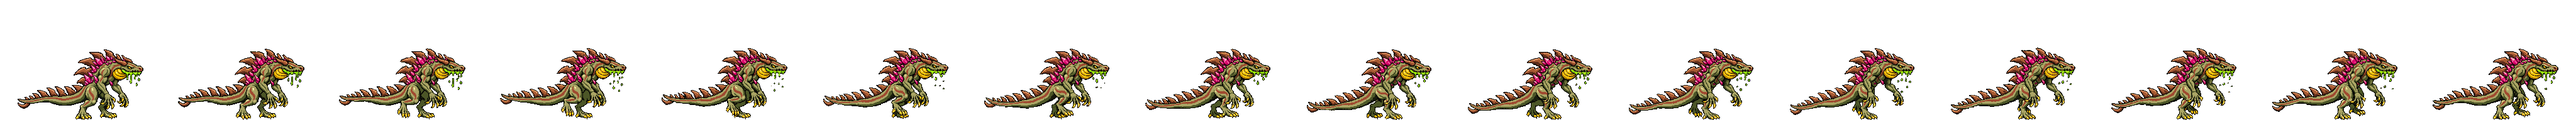
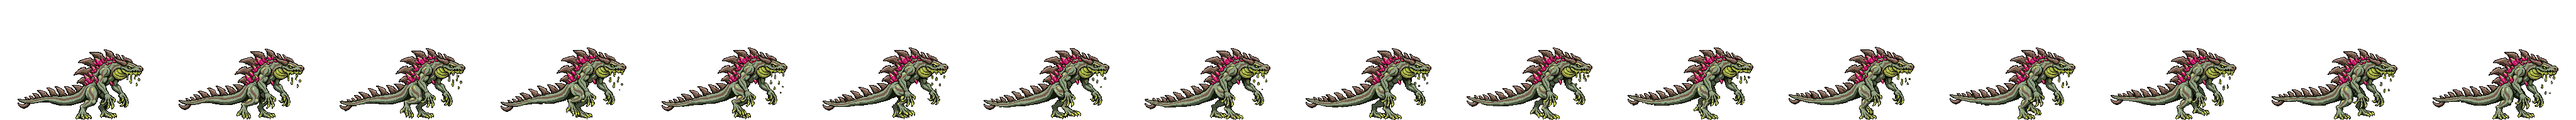
Restyle Belial Stage 3 onto the Stage 2 palette, re-roll idle and walk
The keyed render read as a different creature: olive hide, saturated rust
spines, an orange gland and ~6000 colours of glossy shading.
tools/belial_s3_restyle.py remaps it by class to Stage 2's grey-green hide,
umber-grey spines and stripes and lime gland/drool/claws (crystals and
outline untouched, lightness kept), then median-cuts to 48 colours.
Idle and walk are new seed 0 rolls from the restyled base; they hold the
palette without a recolour.

Claude-Session: https://claude.ai/code/session_01SJ9dCxcqM7YpNSHppDYTcf

Changed region(s): [[0.0, 0.4062, 1.0, 1.0], [0.0312, 0.9375, 0.0625, 0.9688]]

diff --git a/src/presentation.ts b/src/presentation.ts
@@ -65,7 +65,8 @@ const BL1_NATIVE={scale:145/256,anchor:57+128*145/256};
 // Belial Stage 1 attack strips: the same base shifted 40px left (sprite at x=17) so the slashes and the lunge stay in the frame.
 const BL1_LEFT={scale:145/256,anchor:17+128*145/256};
 // Belial Stage 3 strips: the belial-s3 base still, a 200x113 sprite at x=28 in a 256x192 frame (the user's render keyed with
-// tools/key_render.py --period 8.04): the adult stands hunched on his hind legs, claws forward, pink crystals between the back spines.
+// tools/key_render.py --period 8.04, then tools/belial_s3_restyle.py onto the Stage 2 palette): the adult stands hunched on his hind legs,
+// claws forward, pink crystals between the back spines.
 const BL3_NATIVE={scale:200/256,anchor:28+128*200/256};
 // Belial Stage 3 form (just started): idle and walk only; `borrow` plays the Stage 2 strip for every other move until Stage 3 art lands.
 const BELIAL_S3:Form={width:120,borrow:true,anims:{idle:{src:'assets/belial-s3-idle.png',frames:8,fps:8,...BL3_NATIVE},

diff --git a/tools/belial_s3_restyle.py b/tools/belial_s3_restyle.py
@@ -1,0 +1,37 @@
+#!/usr/bin/env python3
+"""Belial Stage 3 restyle: pull the Stage 3 render onto the Stage 1/2 palette and finish.
+Usage: python3 -I tools/belial_s3_restyle.py in.png out.png [--colours 48]
+
+The render came out olive (hue ~54, sat .29) with saturated rust spines/stripes (sat .54), a yellow-orange gland and ~6000 colours
+of glossy shading; Stage 2 is grey-green (hue 95, sat .14) with umber-grey spines/stripes (hue 24, sat .22), a yellow-green lime
+gland/drool/claws (hue 68, sat .7) and far fewer shades. Classes, keeping each pixel's lightness:
+  crystals  hue 290..350, sat > .3            -> untouched (the Stage 3 marker)
+  lime      hue 35..95, sat >= .5, light > .25 -> hue 68, sat .7, lightness x.85 (gland, drool, claws)
+  rust      hue < 35 or > 350, sat > .2        -> hue 24, sat .22, lightness x.95 (spines, stripes)
+  hide      everything else not near-black      -> hue 95, sat .14, lightness x1.12
+Then the whole sprite is median-cut to --colours (no dither) to flatten the gloss. Outline (lightness < .1) is untouched.
+"""
+import argparse, os, sys
+import numpy as np
+from PIL import Image
+sys.path.insert(0, os.path.dirname(os.path.abspath(__file__)))
+from recolor_hls import hls, torgb
+
+def restyle(a, colours=48):
+    a = a.copy(); h, l, s = hls(a); op = a[..., 3] > 127; dark = l < .1
+    crys = op & ~dark & (h >= 290) & (h <= 350) & (s > .3)
+    lime = op & ~dark & (h >= 35) & (h <= 95) & (s >= .5) & (l > .25)
+    rust = op & ~dark & ~crys & ((h < 35) | (h > 350)) & (s > .2)
+    hide = op & ~dark & ~crys & ~lime & ~rust
+    for m, (H, S, k) in [(hide, (95, .14, 1.12)), (rust, (24, .22, .95)), (lime, (68, .7, .85))]:
+        new = torgb(H, S, np.clip(l * k, 0, 1)); a[..., :3] = np.where(m[..., None], np.round(new * 255), a[..., :3]).astype(np.uint8)
+    if colours:
+        q = np.asarray(Image.fromarray(a[..., :3]).quantize(colours, method=Image.Quantize.MEDIANCUT, dither=Image.Dither.NONE).convert('RGB'))
+        a[..., :3] = q
+    a[~op] = 0
+    return a
+
+if __name__ == '__main__':
+    ap = argparse.ArgumentParser(); ap.add_argument('src'); ap.add_argument('out'); ap.add_argument('--colours', type=int, default=48)
+    o = ap.parse_args()
+    Image.fromarray(restyle(np.asarray(Image.open(o.src).convert('RGBA')), o.colours)).save(o.out, optimize=True)

diff --git a/README.md b/README.md
@@ -72,7 +72,7 @@ Score is earned points minus actual HP damage penalty, including healed damage. 
 
 **Belial Stage 2 art (just started, the base form):** `belial-s2.png` is the low-slung striped reptile (grey-green hide, dark umber-grey tiger stripes and blade spines down a long tail, green acid gland on the neck, drooling green acid), keyed from the transparent render with `tools/key_render.py` (grid 9.170x9.175 px per art pixel) to a 216x79 sprite at x=20, feet on the bottom row of a 256x192 frame (`BL2_NATIVE`: scale 216/256, anchor 128). As with Mogurodon the Stage 2 design is the base form; Stage 1 has its own complete form and Stage 3 its own form (both below), which borrows these strips for moves it lacks. `belial-s2-idle` (breathing loop, 8 frames, 8 fps, closed on the base) and `belial-s2-walk` (stalking crawl, one full four-leg stride in 16 frames at 15 fps, closed on the base) are PixelLab strips generated from the base, then fill_pinholes/remove_specks. `belial-s2-run` (Shift / double-tap, 8 frames at 15 fps like Tlézcatl's) is a low bounding gallop generated from the base with it as the end pose (seed 7; seed 0 barely left the walk for its first half and threw dust ahead of the snout): the body gathers and stretches, frames 4-5 are a 4-5px flight phase, dust kicks back, the tail streams straight out; then fill_pinholes/remove_specks. Jump (`belial-s2-jump-rise/air/land`, 9 frames at 24 fps, a 4-frame loop at 8 fps, 5 frames at 20 fps like the other forms): rise is a roll from the base (seed 7; seed 0 barely coiled the tail) that crouches, curls the tail up over his back and springs off all four legs into a level, legs-tucked leap. Air is frames 0,1,2,1 of a 4-frame roll from the rise's last frame (seed 0). Land is frames 1-4 of a roll from that same frame with the base as end pose (seed 7): legs reach down with the tail flung up, then he squashes low. Frame 4 already matched the base, and the exact base closes the strip. All three: remove_specks, bottom_align, fill_pinholes. Crouch (5 frames at 22 fps, a 4-frame loop at 6 fps, then the reverse, like the other forms): `belial-s2-crouch-down` is a roll from the base (seed 0) that splays the legs and presses belly and chin flat with the spines laid back and the tail flat, 79px tall down to about 54. `belial-s2-crouch` is a breathing loop lying flat, a roll from that last pose with it as the end pose (seed 7). PixelLab returned a clean 4-frame cycle that starts on the flat pose. `belial-s2-crouch-up` is crouch-down reversed. Cleanup: remove_specks, bottom_align, fill_pinholes. Form width 120. Light combo (`belial-s2-light1..3`, 8 frames each at 24/21/20 fps, `once`): forward claw swipe, backhand rake, and a lunging bite that snaps shut in a puff of acid. They're generated from the base shifted flush left (`BL2_LEFT`, sprite at x=0, anchor 108) for 40px of reach, with the base as first and last frame. Light1 and light3 are re-rolls (seed 45), because the first rolls' slash arc and acid spray were cut off by the right edge of the frame. Then fill_pinholes/remove_specks. Heavy, a scorpion tail strike (`belial-s2-heavy-rear/hold/slam`: 5 frames at 20 fps, a 4-frame loop at 10 fps, 8 frames at 16 fps; 256x256 frames with the left-shifted base): the tail curls up over his back with the blade poised above his head, quivers while K is held, then whips over his head and slashes down in front of the snout. The hold and slam are generated from rear's last frame; the slam ends on the base, and its first frame (a copy of the hold pose) is dropped so the strike starts the moment K is released. The slash's outer edge grazes the frame's right edge on slam frames 2–3. **Palette:** the renders and strips came out salmon-pink with red spines. `tools/belial_recolor.py` (helpers in `tools/recolor_hls.py`) remaps every Belial strip: pink hide (warm hue, saturation under .57) to grey-green, red spines and stripes (saturation .57+) to dark umber-grey, and slash smears to acid green. A smear is a warm region mostly ringed by transparency with almost no black outline; pixels within 2px of outline stay body, so spines swallowed by the tail-strike arc keep their colour. Acid, claws, eye, outline and the tan dust (hue 42) are untouched. New strips are generated from the recoloured base, so they shouldn't need it, but if a PixelLab roll drifts back toward pink, run it through the same script. Acid Vomit art (`belial-s2-vomit-start/aim/end`, registered as `vomitStart`/`vomitAim`/`vomitEnd`; the mechanic isn't wired up yet): start is frames 1, 2, 4, 5 and 8 of a heave-and-gape roll (seed 0, recoloured); the rolls' own acid streams are skipped, since the game draws the stream. Aim is seven gape frames from tucked down to neck raised (a chin-tuck roll and a silent-roar head-raise roll; prompts that mention vomiting make PixelLab draw a stream). Rotation-matching the head didn't work on these (it locks onto the skull and neck, and the mouth opening barely turns as the neck rises), so `angles` [-25,-12,0,8,18,32,45] are set from the head-and-neck pose, and `mouth` is the midpoint of the jaw tips read off a grid. End is a gag-and-snap roll (seed 7) closed on the shifted base. **Acid Vomit (gameplay, `COMBAT.vomit*`/`corrode*` in `src/config.ts`):** Belial's grounded L. It runs on the Flame Jet's state machine (`jet`, with `jetFuel` as his gland pressure), branching where it differs: `spew()` traces a ballistic arc from the mouth point at a launch speed set by the pressure (`vomitSpeed` empty→full), so as the gland drains the arc sags and the landing walks back toward him. Untouched it lobs at `vomitRest` (15°); W/S tilt it from -25° to 55°. The stream pierces troops and aircraft, intercepts rockets, and stops on the first building (wall or roof) or the street, where it splashes (`vomitSplash`) and leaves an acid puddle (`acid` pools). Running the gland dry plays the gag and locks it until `vomitRelight`. Corrosion (`corr` in `game.ts`) stacks per target with contact time (`corrodePerStack`, up to 3); corroded targets take `corrodeDamage` x stacks per tick and `corrodeVuln` x stacks more from every player hit (buildings via `hit()`, units via a `hitUnit` wrapper round military's, the rival via `strikeRival`); tanks and APCs also lose `corrodeArmor`. A fully corroded building gives way at `corrodeBreak` (25%) HP. He walks at `vomitSlow` (half speed) while spewing. Tests: `tests/belial-vomit.test.ts`. Climb (`belial-s2-climb-grab/climb/climb-punch/climb-mantle`, 256x256 with the base padded to 256 tall, `BL2_NATIVE`): gecko cling, body vertical with the head up and the tail hanging to the bottom row, the gripping claws on the wall line at frame x=171 (hitbox edge, 24 world units out at k=120/216). Grab is frames 0-3 and 8 of a rear-and-leap roll (seed 0; seed 7 painted a wall), eased 81px left and 33px down onto the wall line (the vertical ease is capped so feet never leave the frame). The loop (closed on the cling), punch (acid-green flash on impact frame 4, so `impact:4`) and mantle (ends on the base, starts 26px back for the roof slide, 0.3 x 48 units) are seed 0 rolls from the placed cling frame. PixelLab drew thin dark drool streaks and a roof-ledge line, so 1px-wide dark runs (vertical 4+, horizontal 6+) were erased, then fill_pinholes, remove_specks (MAX 6) and optimize_sprites. No recolour needed. Grab/carry/throw in the jaws (`belial-s2-grab/carry/carry-walk/throw`, 256x256 from the left-shifted base, `BL2_LEFT`, so the head has room to whip): the grab (seed 0) gapes, drops the head to the street to bite, and hauls the neck up high with the jaws clamped; carry (strain loop) and carry-walk (one four-leg stalking stride, head held up) loop from that pose; the throw is frames 2-8 of a roll from it (frames 0-1 just held the pose, and the prop launches on the key press): the jaws spring open and the head whips forward and down with an acid-green swing arc that grazes the frame's right edge on frames 2-4, ending on the shifted base. Detached acid drops and street puddles were removed with remove_specks MAX 120 before carry, carry-walk and throw were generated from the lift frame. These strips set `bite`: each `hold` point is where the jaws close (measured on the snout, frames 0-5 on the street), and the game (`holdBite`) grips the prop by its near end there, its centre 0.3 of its own width ahead at mid-height, and never lets it sink below the feet line. A centred prop hid the whole head. **Acid Pounce (his Slam):** art is 256x256 from the base padded 64px on top (`BL2_NATIVE`). `belial-s2-dive` is frames 0, 3, 4 and 6 of an 8-frame roll from the jump-air pose padded the same way (seed 0): he gathers, then tips into a steep nose-down pounce, claws splayed, jaws open, tail whipped up; bottom-aligned, fill_pinholes, remove_specks, held on the last frame. `belial-s2-slam-land` is frames 1-7 of a roll from that plunge with the padded base as end pose (seed 0; seed 7's splash was weaker) plus the exact base: claws and chest hit in an acid splash both ways, a belly-flop with spatter, and he pushes back up; fill_pinholes only, so the droplets survive. Gameplay (`MOVE.pounce*`): on top of the shared slam, everything the landing strikes (roof under him, buildings in the radius, units, the rival) is soaked straight to `pounceStacks` (2) of corrosion, 3 from a `pounceFullPower` drop, applied after the hit so the slam itself isn't boosted; a street landing lays acid puddles across `pouncePoolWidth` x his body width (x power, capped 1.5). Tests in `tests/belial-vomit.test.ts`. **Acid Deluge (Belial's Ultimate, `COMBAT.deluge*`):** art: `belial-s2-ult-charge/roar/pound/settle`, 256x256 frames from the base padded to 256 tall (`BL2_NATIVE`). Charge is 13 frames at 20 fps (= `delugeCharge`, a roll from the base, seed 0): the gland balloons up, he plants and heaves, acid dribbling. Roar is 9 frames at 18 fps from the last charge frame (seed 7; prompted as a silent roar at the sky, so PixelLab draws no stream): he rears straight up onto hind legs and tail, jaws open at the sky, the geyser firing on impact frame 4. Pound is a 4-frame pumping hold closed on the roar's last frame. Settle is frames 2-7 of a roll back to the base plus the exact base (7 frames at 14 fps). `mouth` (135,100) is the red mouth interior's centre nudged up to the jaws. Cleanup: remove_specks, fill_pinholes, bottom_align. Belial's `pound` points at his heavy slam, since S+J otherwise falls back to `ultPound`. Gameplay (`tickDeluge`/`tickRain` in `game.ts`): planted; on the roar's impact frame the geyser goes up and spouts until the settle starts. Every drop is scheduled then: `delugeDrops` spread over the spout, `delugeDelay` later, landing at random out to `delugeRange` x sqrt(stage scale) on alternating sides. Drops fall from the top of the view and hit the topmost thing under them (aircraft, troops, vehicles, growths, the stronghold crystal, the rival), else the roof below, else the street (a `delugeSplash` splash plus a Deluge puddle, capped at `delugePuddleCap` apart from the stream's). Each hit soaks the target with `delugeSoak` corrosion stacks before `delugeDamage` lands, so a building in the downpour is fully corroded within a few drops and gives way at `corrodeBreak`. Deluge corrosion (`ult` on the corrosion record, which a soak also sets on corrosion the stream laid) ticks as Ultimate damage, so nothing it eats or knocks down refills the meter. The rain outlives the Ultimate until the last drop is down; while it falls the screen tints green. Tests: `tests/belial-deluge.test.ts`.
 **Belial Stage 1 art (complete):** `belial-s1.png` is a lean juvenile of the Stage 2 design: slimmer body, short nub spines, thin whip tail, the neck gland reduced to green drool, same grey-green hide and umber tiger stripes. There was no render for it, so it's a PixelLab Pixen edit (`/edit-image-pixen`, seed 7) of the Stage 2 base shrunk to 62% (Lanczos, feet on the bottom row) with a prompt for a younger, smaller, leaner version that keeps the low head, slitted eye and teeth (a first "hatchling" prompt came out big-eyed and cute). It's a 145x54 sprite at x=57, feet on the bottom row of a 256x192 frame (`BL1_NATIVE`: scale 145/256), fill_pinholes only. Registered as `BELIAL_S1` (`stages[1]`, width 120, `borrow`), so every move without Stage 1 art plays the Stage 2 strip. `belial-s1-idle` (breathing loop, 8 frames at 8 fps: head dips, drool drips and falls) and `belial-s1-walk` (stalking crawl, one full four-leg stride in 16 frames at 15 fps, like Stage 2's) are seed 7 PixelLab rolls from the base with it as the end pose (seed 0 was close but steppier); subject "a young lean grey-green reptile kaiju with dark umber-grey tiger stripes, small spikes along its back, a long thin tail, and green acid drool", pose "standing low on all four legs facing right, head held level". fill_pinholes only: remove_specks would eat the falling acid drops. The walk isn't bottom-aligned (it rides 1-2px high mid-stride, like Stage 2's). `belial-s1-run` (8 frames at 15 fps) is a low bounding gallop rolled from the base with it as the end pose (seed 0; seed 7 sat on the base pose for its first three frames): the body stretches long, frame 4 is the flight phase, dust kicks back; fill_pinholes, remove_specks. Jump (`belial-s1-jump-rise/air/land`, 9 frames at 24 fps, a 4-frame loop at 8 fps, 5 frames at 20 fps like the other forms): rise is a roll from the base (seed 7; seed 0 stood up tall mid-squat) that squats, coils the tail up over his back and springs into a level, legs-tucked leap. Air is frames 0,1,2,1 of a 4-frame roll from the rise's last frame (seed 0). Land is frames 1-4 of a roll from that frame with the base as end pose (seed 7) plus the exact base: legs reach down with the tail flung up, then he squashes and stands. Crouch (5 frames at 22 fps, a breathing loop at 6 fps, then the reverse): `belial-s1-crouch-down` is a roll from the base (seed 7; seed 0 grew the spines to adult size) that splays the legs and presses belly and chin flat, 54px tall down to about 32. `belial-s1-crouch` is a roll from that last pose with it as the end pose (seed 7); all five frames are kept, since the fifth is the in-between that closes the loop smoothly. `belial-s1-crouch-up` is crouch-down reversed. Jump and crouch strips: remove_specks (MAX 40, so detached acid drops don't throw off the alignment), bottom_align, fill_pinholes. Light combo (`belial-s1-light1..3`, 8 frames each at 24/21/20 fps, `once`): forward claw swipe, backhand rake, and a gaping lunge that snaps shut in a puff of acid. They're generated from the base shifted 40px left (`BL1_LEFT`, sprite at x=17), with it as first and last frame. Light1 and light3 are seed 0. Light2 is a re-roll (seed 45) with a prompt asking for a thin streak: seed 0 left a grey blob in the slash and seed 7's arc swallowed him. Light3's tail tip grazes the left edge on frame 2 (3px) and its spray the right on frames 5-6. fill_pinholes, remove_specks. Heavy, the scorpion tail strike (`belial-s1-heavy-rear/hold/slam`: 5 frames at 20 fps, a 4-frame loop at 10 fps, 8 frames at 16 fps; 256x256 frames with the shifted base padded 64px on top): rear is a roll from the base (seed 0; seed 7's tail barely cleared his back) that curls the tail up and forward over his back. Hold (seed 0) quivers it, a loop closed on the rear's last frame. Slam is frames 1-8 of a roll from that frame ending on the base (seed 0; seed 7 wound up for two more frames before striking): the tail whips over his head and slashes down in front of the snout in an acid splash, spatter, and he straightens. Rear had its detached drool drop removed (remove_specks MAX 40) before hold and slam were rolled from it. All three: fill_pinholes, remove_specks, bottom_align (PixelLab left them 1px high). Acid Vomit (`belial-s1-vomit-start/aim/end`, 5 frames at 20 fps, 7 aim frames, 4 frames at 16 fps, `BL1_LEFT`): start is frames 1, 2, 4, 5 and 8 of a heave-and-gape roll from the shifted base (seed 0, chosen over seed 7 because its glow swells the throat like Stage 2's gland rather than the belly); frames 6-7 drew their own acid blast and are skipped, and the detached ring of spray left on frame 8 was erased (remove_specks MAX 600), since the game draws the stream. Aim is seven gape frames rolled from that gape (seed 0 both ways; seed 7's raise dripped a stream): frames 2 and 1 of a chin-tuck roll, the gape itself, and frames 2, 4, 6 and 8 of a silent-roar neck-raise roll. As on Stage 2, the mouth opening barely turns as the neck rises, so `angles` [-25,-12,0,8,18,32,45] follow the head-and-neck pose; the tucked frames really point about -30° and -15°, and a deeper -42° tuck was dropped since the aim stops at -25°. `mouth` is the midpoint of the jaw tips read off a grid (a script that took the biggest acid-green blob found the throat glow instead). End is frames 1-3 of a gag-and-snap roll from the gape closed on the shifted base (seed 0, its detached acid crescent erased; seed 7 left splatter stuck to the head) plus the exact shifted base. remove_specks (MAX 40 on aim), fill_pinholes. Acid Pounce: art is 256x256 from the base padded 64px on top (`BL1_NATIVE`). `belial-s1-dive` is frames 0, 5, 7 and 8 of an 8-frame roll from the Stage 1 jump-air pose padded the same way (seed 7; seed 0 reared nose-up for most of the roll before tipping over): he gathers, then tips into a steep nose-down plunge, claws splayed, jaws open, tail whipped up; bottom-aligned, fill_pinholes, held on the last frame. `belial-s1-slam-land` is frames 1-7 of a roll from that plunge with the padded base as end pose (seed 0; seed 7 hung in the air a frame longer before the splash) plus the exact padded base: claws and chest hit in a big acid splash both ways, a belly-flop in the spatter, and he pushes back up. fill_pinholes only, so the droplets survive. The splash spans the frame and grazes its right edge (2-10px) on frames 1-4. Climb (`belial-s1-climb-grab/climb/climb-punch/climb-mantle`, 256x256 with the base padded to 256 tall, `BL1_NATIVE`): a vertical gecko cling, head up, tail hanging to the bottom row, the gripping claws on the wall line at frame x=158 (the hitbox edge, 24 world units out at k=120/145). Grab is frames 0-3 and 8 of a rear-and-leap roll from the padded base (seed 0; seed 7 painted a wall), detached drool dropped, eased 46px left and 99px down onto the wall line (ease 0, .1, .4, .75, 1, so he doesn't slide while still on the ground; the vertical ease is capped so feet never leave the frame). The loop (closed on the cling; the tail lifts up to 9px off the bottom mid-loop), punch (acid-green flash from frame 5, so `impact:5`) and mantle (ends on the exact padded base, starts 17px back for the roof slide, 0.3 x 48 units, easing to 0) are seed 0 rolls from the placed cling frame. PixelLab drew a wall and roof outline on mantle frames 3-6 in two pale shades, 2px wide: detached pieces were removed, 1-2px-wide straight runs of those colours erased, and the stretch crossing his hind leg on frame 3 erased by hand. fill_pinholes, remove_specks (MAX 6). Grab/carry/throw in the jaws (`belial-s1-grab/carry/carry-walk/throw`, 256x256 from the left-shifted base padded 64px on top, `BL1_LEFT`): the grab (seed 7; seed 0 lifted sooner and lower) gapes, drops the head to the street to bite, and hauls the neck up with the jaws clamped; acid puddles PixelLab left on the street under the jaws (frames 2-6) were erased. Carry (strain loop, 4 frames at 6 fps) and carry-walk (one four-leg stalking stride, head held up, 8 frames at 10 fps) are seed 0 loops from the lift frame. The throw is frames 2-7 of a roll from it (seed 7; seed 0 glitched a brown crest onto the head) plus the exact shifted base: the jaws spring open in an acid burst (detached arcs erased, remove_specks MAX 600) and he settles. Frames 0-1 only held the pose, and the prop launches on the key press. `bite` is set; each `hold` is where the jaws close, read off a grid: the bite spot on the street for frames 0-5 (around (160,248)), then following the jaws up to (141,204). Carry and carry-walk use the same offset from the snout tip as the lift frame. Acid Deluge, his Ultimate (`belial-s1-ult-charge/roar/pound/settle`, 256x256 from the base padded to 256 tall, `BL1_NATIVE`): charge is 13 frames at 20 fps (= `delugeCharge`), a roll from the base (seed 7; seed 0's sac ballooned so big it hunched his whole body). The throat swells into a huge glowing sac as he plants and heaves. Roar is 9 frames at 18 fps from the last charge frame (seed 0, prompted as a silent roar at the sky; its detached acid spray was erased, while seed 7's spray was fused to the mouth): he rears straight up onto hind legs and tail, jaws open at the sky. He's fully reared on frame 2, so `impact:2` (Stage 2's is 4), and the geyser goes up 0.11s into the roar instead of 0.22s. Pound is a 4-frame pumping hold closed on the roar's last frame (seed 0). Settle is frames 2-7 of a roll back to the base (seed 0) plus the exact base, 7 frames at 14 fps. `mouth` (112,148) is the midpoint of the jaw tips on every reared frame and the hold. `pound` (S+J) points at his Stage 1 heavy slam, as on Stage 2. Cleanup: remove_specks, bottom_align, fill_pinholes. With this, Belial's Stage 1 form has every move; `borrow` stays as a safety net.
-**Belial Stage 3 art (just started):** `belial-s3.png` is the adult: hunched up on his hind legs with clawed arms forward, olive hide with rust-red stripes, big brown blade spines down the back and tail, clusters of pink crystal shards between the back spines and one on the arm, a yellow-orange acid gland on the neck and green acid drool. It's the user's transparent render (1672x941) keyed with `tools/key_render.py --period 8.04`: the automatic measurement locked onto the 4.09px half-period on x (and 7.34 on y), and the render's stair-steps are about 8px both ways, so the period is forced square (8.04 is the x spectrum's own peak) and only the phase is measured. 200x113 sprite at x=28, feet on the bottom row of a 256x192 frame (`BL3_NATIVE`: scale 200/256). Registered as `BELIAL_S3` (`stages[3]`, width 120, `borrow`), so every move without Stage 3 art plays the Stage 2 strip. `belial-s3-idle` (8 frames at 8 fps) and `belial-s3-walk` (one full stride in 16 frames at 15 fps) are seed 0 PixelLab rolls from the base with it as the end pose; subject "a huge muscular semi-upright olive-green reptile kaiju with rust-red stripes, large brown blade spines down its back and tail, pink crystal shards growing between the back spines, a yellow-orange acid gland on the neck and green acid drool", pose "standing hunched on its hind legs facing right, clawed arms held forward, long tail straight out behind". fill_pinholes only, so the drool drops survive; the walk rides 1-2px high mid-stride like the other forms'. `tools/pixellab_edit.py` wraps the Pixen edit endpoint used for Stage 1's base (Pixen candidates for Stage 3 were tried before the render arrived).
+**Belial Stage 3 art (just started):** `belial-s3.png` is the adult: hunched up on his hind legs with clawed arms forward, the Stage 2 grey-green hide and umber-grey stripes, big umber blade spines down the back and tail, clusters of pink crystal shards between the back spines and one on the arm, a lime acid gland on the neck and lime drool. It's the user's transparent render (1672x941) keyed with `tools/key_render.py --period 8.04`: the automatic measurement locked onto the 4.09px half-period on x (and 7.34 on y), and the render's stair-steps are about 8px both ways, so the period is forced square (8.04 is the x spectrum's own peak) and only the phase is measured. 200x113 sprite at x=28, feet on the bottom row of a 256x192 frame (`BL3_NATIVE`: scale 200/256). The render came out olive with saturated rust spines, an orange gland and ~6000 colours of glossy shading, so it didn't read as the same creature; `tools/belial_s3_restyle.py` remaps it onto the Stage 2 palette by class (hide to hue 95/sat .14, spines and stripes to hue 24/sat .22, gland/drool/claws to Stage 2's lime, hue 68/sat .7; crystals and outline untouched, lightness kept) and median-cuts it to 48 colours (45 used) to flatten the gloss. Run it on the keyed render, not on strips. Registered as `BELIAL_S3` (`stages[3]`, width 120, `borrow`), so every move without Stage 3 art plays the Stage 2 strip. `belial-s3-idle` (8 frames at 8 fps) and `belial-s3-walk` (one full stride in 16 frames at 15 fps) are seed 0 PixelLab rolls from the restyled base with it as the end pose; they keep the palette without a recolour (hide median hue 93-94, sat .14). Subject "a huge muscular semi-upright grey-green reptile kaiju with dark umber-grey stripes, large umber-brown blade spines down its back and tail, pink crystal shards growing between the back spines, a yellow-green acid gland on the neck and yellow-green acid drool", pose "standing hunched on its hind legs facing right, clawed arms held forward, long tail straight out behind". fill_pinholes only, so the drool drops survive; the walk rides 1-2px high mid-stride like the other forms'. `tools/pixellab_edit.py` wraps the Pixen edit endpoint used for Stage 1's base (Pixen candidates for Stage 3 were tried before the render arrived).
 
 **Tlézcatl Stage 3 art (complete, registered as `stages[3]`):** `tlezcatl-s3.png` is the hunched volcanic dragon (crystal-spiked back, flame spines, horned frilled head, curled striped tail). `tools/key_render.py` locked onto the half-period harmonic of the render's grid (362 px wide, a 2-cell outline), so it was rerun with `--width 181`: grid 8.006 px, a 181x126 sprite at x=37, feet on the bottom row of a 256x192 frame (`TZ3_NATIVE`: scale 181/256, anchor 127.5). Width 120 like Mogurodon's Stage 3, about 84 units tall. `tlezcatl-s3-idle` (breathing loop, 8 fps) and `tlezcatl-s3-walk` (bipedal theropod stalk, 12 frames at 15 fps, a 0.8s cycle like the other walks). The idle is an 8-frame PixelLab strip from the base with it as the last frame; the eye went dull in every generated frame and `fix_eye.py --ref tlezcatl-s3.png --region 96,104,189,200 --radius 10` restores it, then `fill_pinholes.py` and `remove_specks.py`. The walk is on the hind legs only, with the clawed hands held raised in front of the chest and never touching the street. Text prompts produced limps (each foot stepped around its own spot and never passed the other), so it is a skeleton animation (`/animate-with-skeleton-v3`, 3 generations, seed 0) through `tools/pixellab_skeleton.py`. `tools/tlezcatl_s3_walk_poses.py DIR 12 26 9 30` scripts the 12 poses from `/estimate-skeleton` of the base padded to 256x256 (copy in `tools/tlezcatl-s3-skeleton.json`; ankles moved down onto the feet, wrists out onto the raised claws, hips moved together). Both hind feet run the same step cycle (+-26px about a shared centre, planted and sliding back, then lifted 9px and carried forward, knees from two-bone IK), half a cycle apart, so they pass each other. A legs-only version left the rest of him stiff, so the upper body moves with the gait: it sinks 6px into each stomp and rises as the legs pass, the head dips 4px a beat late and pitches with it, the shoulders roll, and the arms swing +-14 degrees opposite the legs. The reference skeleton is the plain base, since the swing is not at rest at phase 0. The prompt asks for the tail sway (the skeleton has no tail joints): it swings out straight as a counterweight on each stride and recoils. That needed room, so the generation input is the base shifted 30px right (DX 30); the body came out about 4px left of that, hence `TZ3_WALK` (sprite x=63, anchor 63+128*181/256). Seed 11 snapped the tail between curled and straight in one frame. The model left flat opaque (142,102,106) patches with no outline between the legs and beside the tail on frames 0, 1, 5 and 6 (a colour absent from the base); they were keyed out (connected areas of 8+ px within 10 of it). Then the output was cropped back to 256x192, the eye restored with `fix_eye.py --ref` (the base shifted 30px) `--region 96,104,219,230 --radius 10 --offset 3:-10,-5` (frame 3 matched the jaw, so it takes frame 9's offset, the cycle being symmetric), then `fill_pinholes.py` and `remove_specks.py` (MAX 12). `tlezcatl-s3-run` (Shift / double-tap, 8 frames at 15 fps like the Stage 1 run) is a charging theropod sprint, also skeleton-posed: `tools/tlezcatl_s3_run_poses.py DIR 8 30` uses the walk's corrected skeleton with a +-34px stride, an 18px knee lift, the upper body pitched 9 degrees forward and low about the hips, compression over the planted leg, the head bobbing a beat late and the arms tucked high and pumping +-12 degrees (it also scripts a 5px flight phase at full extension, which PixelLab flattened, so every frame is grounded). The prompt has the tail stream straight back. A first generation from the base (seed 7) had the right silhouette but its frame 0 kept the base's curled tail, a pop on every loop. So the shipped strip (seed 0) is generated from that generation's last frame, which is at the base's phase but already leaning with the tail straight, with its skeleton as the reference. Seed 7 of that pass smeared the tail tip on two frames. The tip of the lower tail spine loses about 3px at the frame's left edge on frames 2, 3, 6 and 7. The body came out 2px left of the 30px-shifted base, hence `TZ3_RUN` (sprite x=65). Cropped back to 256x192; eye restored with `fix_eye.py --ref` (the base shifted 30px) `--region 96,104,219,230 --radius 22` (the lean drops the head 11-16px), then `fill_pinholes.py` and `remove_specks.py` (MAX 12). The light combo (`tlezcatl-s3-light1/2/3`, 8 frames at 24/21/20 fps like the other forms' combos) is skeleton-posed too: `tools/tlezcatl_s3_light_poses.py DIR -30` scripts keyframes (lean about the hips, hip drop, front-foot step, surge, head thrust along the neck, per-arm angles) on the walk's corrected skeleton, eased and ending on the base pose so the combo chains, and writes the base padded to 256x256 and shifted 30px left (sprite at x=7, `TZ3_LEFT`) to generate from. light1 is the near-claw overhead rake: the claw rises above the head in front of the horns and rakes down past the snout (lava trail on frame 4; seed 7, after seed 0 of a version cocked behind the head smeared the arm through the body). light2 is the far-claw hook rake, shot out past the snout at jaw height and hooked down; its body came out about 2.5px left, hence `TZ3_LEFT2` (sprite x=4.5). light3 is the lunging bite: rears the head back, then drives head and shoulders forward and low with the jaws gaping. Light2 and light3 are seed 0. The flat unoutlined (142,102,106) patches showed up again (light1 frames 4-5, light2 frame 4, light3 frames 1 and 5) and were keyed out like the walk's; light1 frame 5 was still smeared under the belly, so it is a copy of frame 6. Cropped back to 256x192. PixelLab draws the eye as a dull (255,171,5) blob; rather than `fix_eye.py` (its head match mis-tracked the lunging and raking frames), the blob and its two darker edge shades are recoloured to the base's yellows in place; light3 frame 5 has no eye (squeezed shut on the snap). Blurred tail-tip smudges on light1 frames 3-4 and light2 frames 2-4 were partly erased (their pale off-palette greys); the tail tip touches the frame's left edge on light2 frames 2-3. Then `fill_pinholes.py`, `remove_specks.py` (MAX 12) and `optimize_sprites.py`. The heavy (`tlezcatl-s3-heavy-rear/hold/slam`, 5/4/8 frames at 20/10/16 fps, the shared heavy timing; also `TZ3_LEFT`) is a two-claw overhead smash posed by the same script (`heavy` strip): one 13-frame generation (seed 7; seed 0 was near-identical with a muddier rear) in which he rears tall on the hind legs, head up and both claws thrown overhead (keyframes 1-5 = rear), then crashes forward with the chest and both claws on the street in front (6-9) and rises back to the base pose (10-13). The first crash frame smeared on both seeds, so the slam is frames 6,6,7-12: it starts on the crash and holds it a frame; the head is down on the crash frames, so they have no eye. The game already draws Tlézcatl's heavy lava splash, so no impact effect was generated. The hold is `tools/shudder_hold.py` on rear's last frame (split row 165, above the feet). Same cleanup as the light combo: flat (142,102,106) patches keyed out, cropped to 256x192 (the raised claws top out at row 12), dull eye blobs recoloured (rear frame 0's smaller orange eye by hand), `fill_pinholes.py`, `remove_specks.py` (MAX 12), `optimize_sprites.py`. The tail tip touches the frame's left edge on the rear. Pound reuses the slam, as on Stages 1 and 2. The Flame Jet (`tlezcatl-s3-jet-start/aim/end`, `TZ3_LEFT`, prompted without fire words; the game draws the fire) is posed by the same script too (`jet` strip, which adds `tilt`, turning the head about the neck): one 15-frame generation (seed 7; seed 0 smeared the head-down and highest frames). `jet-start` (5 frames, 22 fps) is keyframes 1-5: inhales with the head reared back 10-35 degrees, then drops forward into the breath pose, jaws wide. `jet-end` (4 frames, 16 fps) is keyframes 12-15: jaws shut, settles onto the base pose. The scripted aim sweep (-24 to 58 degrees) closed the jaws at 15 and 30, so a second 6-frame generation (seed 0) ran the sweep from the breath pose with the jaws prompted open throughout. `jet-aim` (5 frames, never played) is that run's -12, 15 and 30 frames, the breath pose and the first run's 45. The -24 frames had the mouth shut on both runs and were left out (aiming fully down uses the lowest frame, as on Stage 2), and so was the scripted 58 (the head overshot past the aim range). `angles` (-15/0/18/39/57) are measured by rotating the breath frame about the neck keypoint for the best head match, not the scripted values. `mouth` is the front of the open jaws per frame: the frontmost mouth-interior pixels along the aim pushed out to the gap between the jaw tips, checked by eye. Same cleanup as the other strips: flat patches keyed out, cropped to 256x192. The dull eye blobs were recoloured only where they were the eye (the dull-eye colour also shows up on lava cracks), and start 0 and aim 2 got their small orange eyes recoloured by hand. Then `fill_pinholes.py`, `remove_specks.py` (MAX 12) and `optimize_sprites.py`. The crouch (`TZ3_NATIVE`, the unshifted base; shared crouch timing) is skeleton-posed by the same script (`crouch` and `crouchLoop` strips, `tools/tlezcatl_s3_light_poses.py DIR 0 crouch,crouchLoop`, which gains a `hands` option: two-bone IK planting each claw on the street ahead of its shoulder): `tlezcatl-s3-crouch-down` (5 frames, 22 fps, seed 7) drops off the hind legs onto all fours, hips and chest sunk, claws on the street, head thrust forward, 126px tall to 92px; `tlezcatl-s3-crouch` (4-frame breathing loop, 6 fps, seed 0) is generated from that last frame with the pose as its reference; `tlezcatl-s3-crouch-up` is crouch-down reversed. Same cleanup as the other strips: cropped to 256x192, flat (142,102,106) patches keyed out, the dull eye blob recoloured to the base yellow (head only), `fill_pinholes.py`, `remove_specks.py` (MAX 12), `optimize_sprites.py`. The jump (`TZ3_NATIVE`, the unshifted base; shared jump timing) is skeleton-posed too (`jumpRise`/`jumpAir`/`jumpLand` strips, which add `foot`, lifting both feet off the street so the legs tuck): `tlezcatl-s3-jump-rise` (9 frames, 24 fps, seed 0) sinks deep on the hind legs with the arms swung back and springs straight up, legs tucked, claws raised, tail streaming down; `tlezcatl-s3-jump-air` (4-frame loop, 8 fps, seed 0) is generated from the rise's last frame with its pose as the end keyframe, the tail swaying out behind and back; `tlezcatl-s3-jump-land` (5 frames, 20 fps, seed 0, from the same frame) reaches the hind legs down, squashes low and straightens. The generation's last landing frame smeared, so the strip's last frame is the base sprite itself. The swinging tail is the lowest point in the air, so the rise's frames 5-9 are shifted down 3/10/13/14/14px and every air frame 14px (landing frame 1 10px), as on Stage 2. Same cleanup as the crouch. The climb set (`TZ3_NATIVE`; 256x256, the base padded to 256 tall with the feet on the bottom row; shared climb timing) is text-prompted PixelLab animation like Stage 2's, not skeleton-posed: an earlier skeleton-posed set bent the hunched base into a stiff curl and was cut. `tlezcatl-s3-climb-grab` is frames 0-3 and 8 of an 8-frame leap onto the wall (seed 7; seed 0 painted a black wall slab down the right side), frames 0-3 bottom-aligned and the claws easing 62px onto the wall line at frame x=164 (the 24-unit hitbox edge at this scale). It ends on the cling pose: body upright against the wall, head up, both claws and the hind feet gripping, tail hanging straight down. The other three strips are generated from that cling frame, which fills the frame's height (rows 3-254), so they are shifted 62px left and not down. `tlezcatl-s3-climb` (seed 0; seed 7 left dark slabs behind the legs on frames 3-6) is a hand-over-hand loop closed on the cling. `tlezcatl-s3-climb-punch` (seed 7, whose starburst lands on impact frame 5; seed 0's lands on frame 6) draws the upper claw back off the wall and slams it in with a starburst and sparks. A few sparks on frames 6-7 reached the generated frame's right edge, so they end in a hard cut 62px in. `tlezcatl-s3-climb-mantle` (seed 0, generated with the base as its last frame; seed 7 flipped the tail mid-haul) hauls up over the edge and stands hunched on the hind legs. It starts 22px further back (the game's 0.3-body-width roof slide), easing to 0 and to bottom-aligned by its last frame. That last generated frame drifted from the base (a tighter tail curl), so the strip ends on the base sprite itself. PixelLab's dull (255,171,5) eye blob is recoloured to the base's (251,243,5). On the cling, loop and punch frames it is the dull blob nearest the eye's last position (tracked frame to frame from the cling, since lava cracks share the colour; the grab is tracked back from its last frame). On the leap and mantle frames, where the head moves too far for tracking, it is the largest orange cluster in a window about 23px in from the head's right edge and 33px below its top (45px in on grab frame 2, where a claw juts past the snout). Then `fill_pinholes.py`, `remove_specks.py` (MAX 12, which also clears ember flecks on the leap; MAX 4 on the punch so its sparks survive) and `optimize_sprites.py`. Grab/carry/throw (`TZ3_NATIVE`; 256x256, the base padded to 256 tall; shared grab timing; all generated without any object, since the game draws the prop): `tlezcatl-s3-grab` (9 frames, 22 fps, seed 5) dips and scoops both claws along the street, then rears upright and raises them past the chest and face until both arms are straight up with the claws together above the head, head tipped back. A first prompt that mentioned lifting something drew a slab or a car into the claws (seeds 0 and 3) or crouched for six frames and snapped upright (seed 7). A motion-only prompt fixed that, but its arms ended spread wide, so a carried car hung in the gap between the claws; the shipped prompt asks for the claws touching above the head (seed 0 of it jumped 35px on the last frame, seed 9 never fully raised the arms). `tlezcatl-s3-carry` (4-frame loop, 6 fps, seed 0; seed 7's arms crept up and didn't close the loop) and `tlezcatl-s3-carry-walk` (8-frame loop, 10 fps, seed 0; seed 7 drifted 50px forward and back) are generated from the grab's last frame and closed on it. `tlezcatl-s3-throw` (18 fps, seed 0, from the same frame with the base as the last frame) whips both arms forward and down with swooshes on frame 1 (the launch) and settles; it is generated frames 0-6 and then the base sprite itself. Seed 7 swooshed a frame later and clipped the swooshes at the frame's right edge. `hold` points: grab frames 0-2 keep the prop on the street at the front claw, 3-6 follow the rising hands (picked by eye), then it sits on the joined claw tips (mean x of the top six rows, 4px below the top). Dull eye blobs are recoloured to the base yellow by position per frame; the overhead pose shows no eye (the head is tipped back between the arms, and the dull blob there is a lava crack on the forearm). Then `fill_pinholes.py`, `remove_specks.py` (MAX 12; MAX 4 on the throw so the swooshes survive) and `optimize_sprites.py`. Magma Dive (`TZ3_NATIVE`; 256x256, the padded base; the Stage 2 timing): `tlezcatl-s3-dive` (4 frames, 24 fps) is the base and then frames 3, 5 and 8 of an 8-frame generation (seed 7; seed 0's plunge had a hind foot kicked up beside the head). He pitches forward into a vertical head-first plunge, claws reaching for the street and tail straight up, every frame bottom-aligned and held on the last. He takes longer than Stage 2 to get vertical, hence later frames than Stage 2's 0, 2, 3 and 4. `tlezcatl-s3-slam-land` (8 frames, 16 fps) is frames 1-7 of a generation from that plunge with the base as the end pose (seed 0; seed 7 built the splash over three frames, too late for a landing). He crashes in with a lava splash both ways on the first frame, belly-flops and pushes back up; the strip ends on the base sprite itself, since the generated last frame drifted from it. The splash ran past the generated frame's edges on frames 1-4, so its fire colours (red channel over 200, blue under 60) are dithered out over the outer 20px (an ordered 4x4 Bayer ramp) instead of ending in a hard cut. PixelLab left a flat, unoutlined grey (133,137,138) blob in the splash on frame 2; it was keyed out (connected areas of 8+ px), and the gap reads as space between flame tongues. Dull eye blobs are recoloured to the base yellow by position (dive frame 1, slam frames 4-6; the plunge hides the eye, and the slam's frames 2-3 already had a yellow one). Then `fill_pinholes.py`, `remove_specks.py` (MAX 12) on the dive only, so the slam's lava droplets survive, and `optimize_sprites.py`. Eruption (`TZ3_NATIVE`; 256x256, the padded base; the Stage 1/2 timing): `tlezcatl-s3-ult-charge` (16 frames, 16 fps) is frames 1-16 of a 16-frame generation (seed 7; seed 0 flickered from yellow back to orange and again). He curls into a spiked ball whose crystal and flame-spine corona heats steadily from orange through yellow to white-hot. PixelLab floated the ball 21px above the street, so every charge frame is bottom-aligned. A roar generated straight from the white-hot ball came out off-model (a generic red dragon with no crystals and no purple hide, on both seeds), because the ball gives PixelLab nothing to hold the design to. So the reared end pose was generated first from the base: rearing up on the hind legs, arms flung wide, jaws open, spines blazing (seed 7, last frame; seed 0's flames were a hard-edged starburst). `tlezcatl-s3-ult-roar` (8 frames, 16 fps) is frames 1-8 of a generation from the last charge frame to that pose (seed 0; seed 7 flashed twice and snapped). It whites out on its first frame, the instant the blast fires, then a fire ring reveals him white-hot and reared up, cooling to his own colours with the spines blazing; the grey under the ball on frame 2 is a scorch shadow on the street. `tlezcatl-s3-ult-pound` (4-frame loop, 10 fps) is frames 5-8 of the rear-up generation, which end on the roar's last pose. The roar's own last four frames, the Stage 2 source, still had the fading fire ring on the first one and would have flashed it every cycle. `tlezcatl-s3-ult-settle` (8 frames, 16 fps) is frames 1-7 of a generation from the reared pose to the base (seed 0), then the base sprite itself: the flames die into drifting embers as he lowers his arms and sinks back down. The glowing frames keep PixelLab's own colours; on settle frames 5-6 the dull eye blob is recoloured to the base yellow (the other dull blobs there are cooling spines). Then `fill_pinholes.py` and `optimize_sprites.py`; `remove_specks.py` is skipped so the sparks and embers survive.
 
